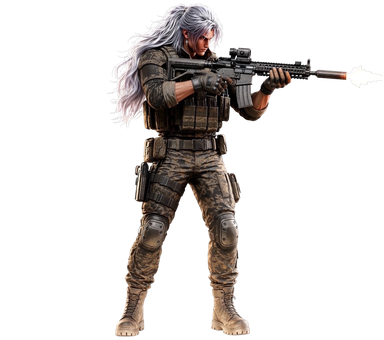
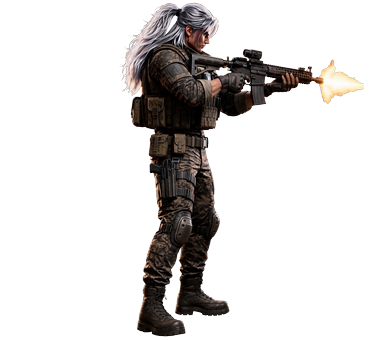
Replace RIGHT/EAST FIRE sprite with new supplied image
- assets/alexandre/right_fire.png replaced with the newly attached
  right-facing firing render; pixels are used as-is (crop + alpha-mask
  cleanup only, no regeneration/redraw) — the source already carried real
  alpha transparency, so no background removal was needed
- Alpha-cropped to its own connected region, then scaled and pasted onto
  the exact same shared canvas geometry as the other 7 sprites (384x340,
  same foot-baseline/center-of-mass anchor point) so switching between
  right_aim and the new right_fire causes no jump or size change
- Added RIGHT_FIRE_MUZZLE_DX/DY: a fixed screen-space muzzle point
  measured from this specific asset's flash position (higher and further
  out than the old generic radial offset), applied only when
  baseDir === 'right' inside spawnBullet(). Bullet velocity/direction
  still comes from getAimAngle() exactly as before — only the spawn
  *position* for this one case changed, not the aiming math
  (angleToBucket, +-45 clamp, AIM STICK handling are all untouched)
- Verified UP/DOWN/LEFT sprites and firing directions are unaffected;
  RIGHT AIM<->FIRE cycling during a FIRE hold shows the new image with no
  position/size jump; bullets still travel exactly along the aim angle
- Original attached image kept at
  assets/alexandre/source/right_fire_source_v2.png for provenance
  (previous right_fire source kept alongside, untouched)

Changed region(s): [[0.2812, 0.0, 0.9688, 1.0]]

diff --git a/game.js b/game.js
@@ -316,12 +316,27 @@
   const FIRE_INTERVAL = 170; // ms
   const FIRE_POSE_DURATION = 80; // ms — how long the FIRE sprite shows per shot
   const MUZZLE_DIST = SPRITE_DRAW_H * 0.46; // same muzzle offset used previously
+  // The replacement RIGHT/FIRE sprite's muzzle flash sits at a fixed point
+  // on screen (measured directly from the asset), noticeably higher and
+  // further out than the generic radial offset above. The sprite doesn't
+  // rotate with the fine aim angle inside the +-45 cone, so a fixed
+  // screen-space point is the correct match for it, not another radial
+  // formula. Scoped to RIGHT + FIRE only — every other direction/pose still
+  // uses the generic MUZZLE_DIST radial offset above, unchanged.
+  const RIGHT_FIRE_MUZZLE_DX = SPRITE_DRAW_H * 0.503;
+  const RIGHT_FIRE_MUZZLE_DY = SPRITE_DRAW_H * -0.253;
   let lastFireTime = -Infinity;
 
   function spawnBullet() {
     const angle = getAimAngle();
-    const bx = player.x + Math.cos(angle) * MUZZLE_DIST;
-    const by = player.y + Math.sin(angle) * MUZZLE_DIST;
+    let bx, by;
+    if (player.baseDir === 'right') {
+      bx = player.x + RIGHT_FIRE_MUZZLE_DX;
+      by = player.y + RIGHT_FIRE_MUZZLE_DY;
+    } else {
+      bx = player.x + Math.cos(angle) * MUZZLE_DIST;
+      by = player.y + Math.sin(angle) * MUZZLE_DIST;
+    }
     bullets.push({
       x: bx,
       y: by,
